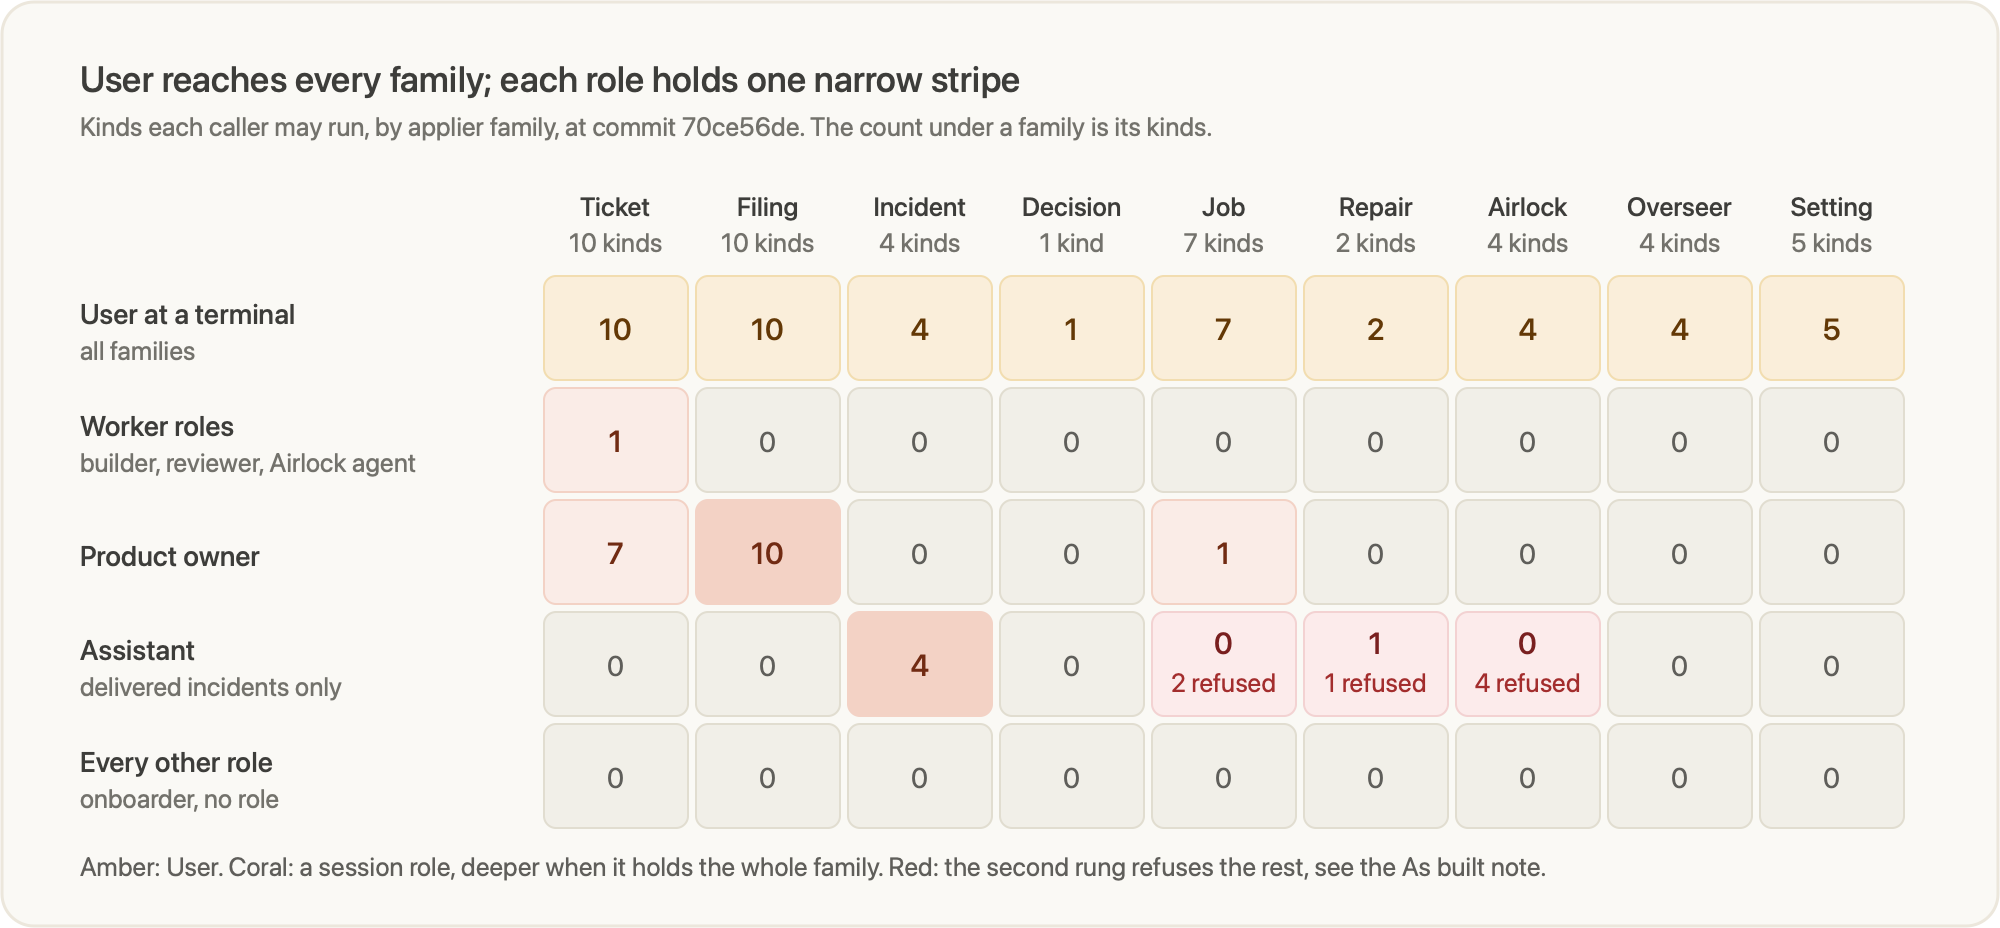
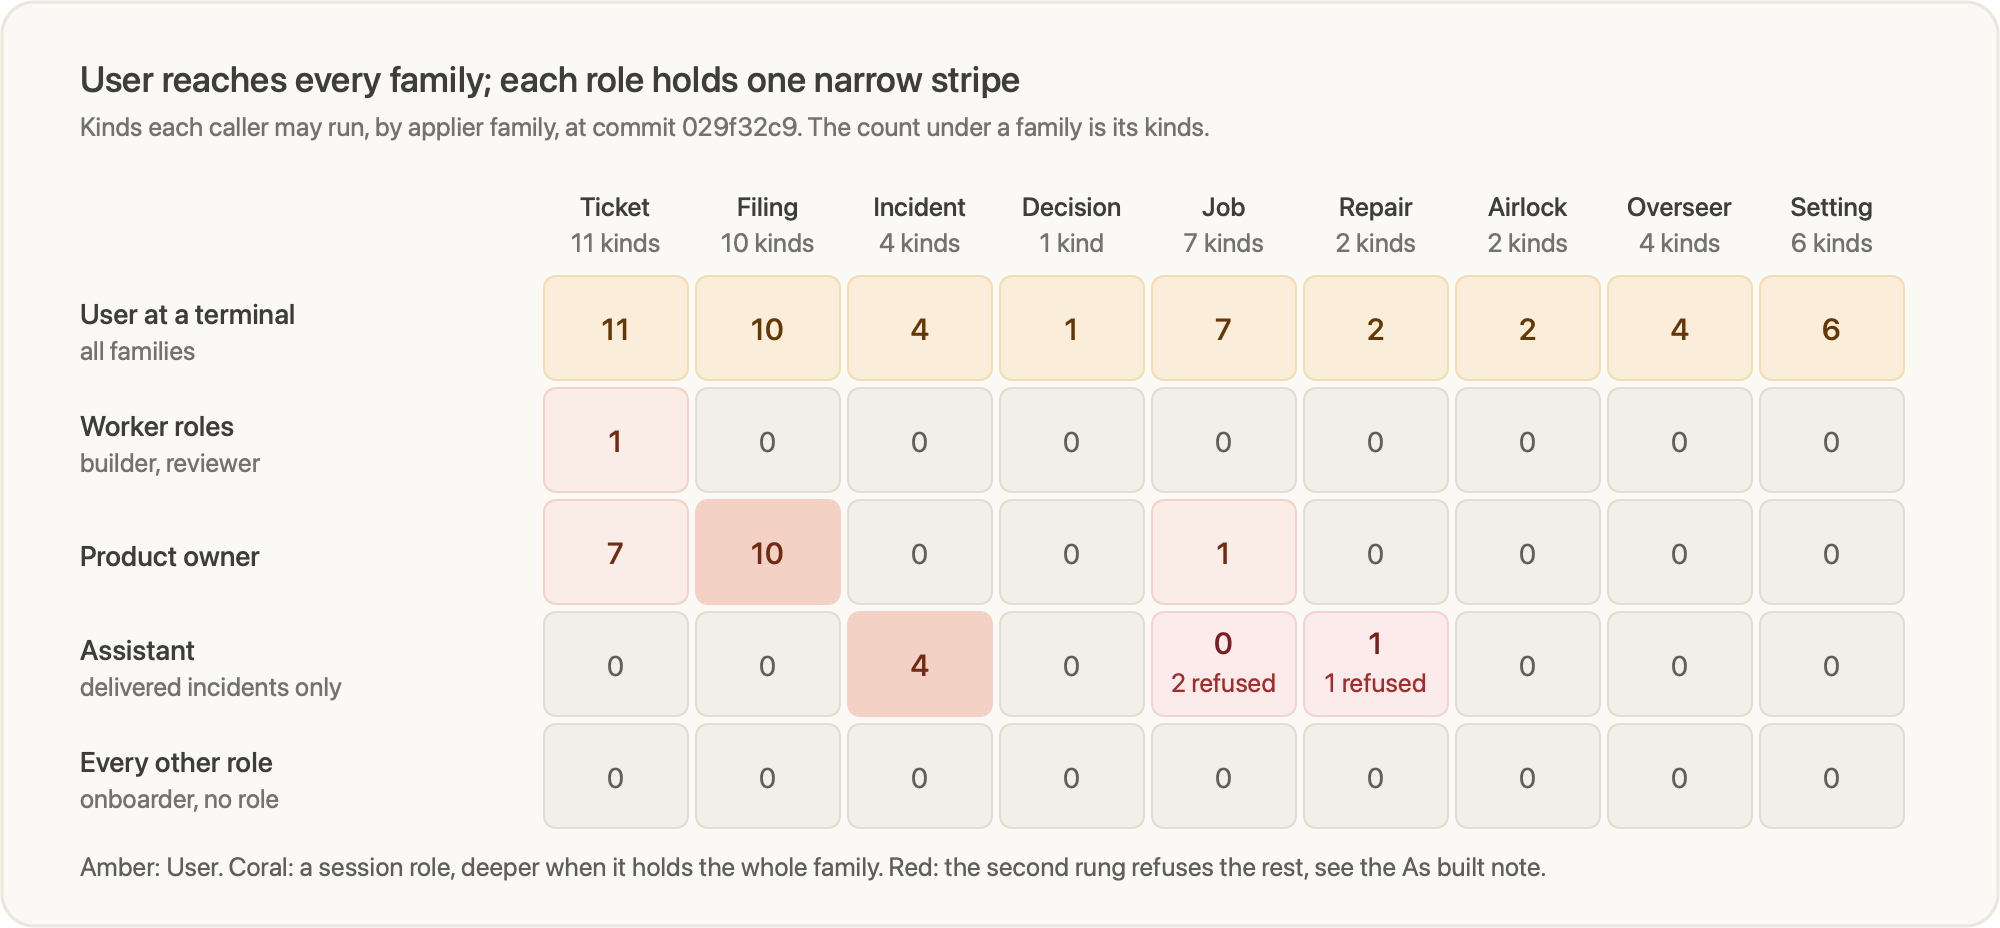
Count the control kinds, their families and the verb routes at commit 029f32c9

diff --git a/docs/architecture/control-and-hatch.md b/docs/architecture/control-and-hatch.md
@@ -29,7 +29,7 @@ it. The folder holds against Bash only; [Identity is a folder](#identity-is-a-fo
 
 ## One contract
 
-`ControlCommand` is one union of 48 kinds at commit 70ce56de, counted from `CONTROL_COMMAND_KINDS`. Each value is plain
+`ControlCommand` is one union of 47 kinds at commit 029f32c9, counted from `CONTROL_COMMAND_KINDS`. Each value is plain
 JSON, so it survives a Hatch file or an HTTP body unchanged. A ticket is named as it was written (`3`, `003`, `#3`) and
 resolved inside the hold by `ticketIdOfReference`. Nine applier files implement the kinds, and a `satisfies` check on
 `CONTROL_APPLIERS` fails the type-check if a kind has no applier.
@@ -39,16 +39,17 @@ A few verbs only User runs by hand, such as `log` and `ticket status`, have no c
 
 | Applier file in `src/services/control/` | Kinds | Reaches an applier through a Hatch |
 | --- | --- | --- |
-| `TicketControls.ts` (10) | `ticket-add`, `ticket-edit`, `ticket-depends`, `ticket-priority`, `ticket-epic`, `ticket-abandon`, `ticket-ready`, `ticket-network`, `ticket-hold`, `ticket-unhold` | All but the last two |
+| `TicketControls.ts` (11) | `ticket-add`, `ticket-edit`, `ticket-depends`, `ticket-priority`, `ticket-epic`, `ticket-abandon`, `ticket-ready`, `ticket-submit`, `ticket-network`, `ticket-hold`, `ticket-unhold` | All but `ticket-ready`, `ticket-submit` and the last two |
 | `FilingControls.ts` (10) | `epic-add`, `draft-open`, `draft-claim`, `draft-release`, `draft-note`, `draft-ask`, `draft-answer`, `draft-drop`, `draft-close`, `draft-abandon` | All, [product owner](../glossary.md#product-owner) only |
 | `IncidentControls.ts` (4) | `ticket-park`, `incident-answer`, `incident-note`, `incident-escalate` | All, [Assistant](../glossary.md#assistant) only |
 | `DecisionControls.ts` (1) | `decision-answer` | None |
 | `JobControls.ts` (7) | `job-stop`, `job-fresh`, `job-stop-all`, `job-message`, `intake-start`, `onboarder-advise`, `intake-close` | `intake-close` only |
 | `RepairControls.ts` (2) | `worktree-repair`, `gate-retry` | `worktree-repair` only |
 | `OverseerControls.ts` (4) | `overseer-pause`, `overseer-resume`, `overseer-stop`, `overseer-restart` | None |
-| `SettingControls.ts` (5) | `concurrency-set`, `pipeline-prepare-step-set`, `pipeline-gate-add`, `pipeline-gates-none`, `pipeline-gate-remove` | None |
+| `SettingControls.ts` (6) | `concurrency-set`, `pipeline-prepare-step-set`, `pipeline-gate-add`, `pipeline-gates-none`, `pipeline-gate-remove`, `pipeline-approval-set` | None |
+| `AirlockControls.ts` (2) | `merge-accept`, `merge-update` | None |
 
-So 25 of the 48 kinds can get through the Hatch at all, for some role. The other 23 are User's alone: their verbs
+So 23 of the 47 kinds can get through the Hatch at all, for some role. The other 24 are User's alone: their verbs
 still relay, and the Overseer refuses them in its hold.
 
 `ControlService.apply` returns one of two outcomes. It is `done`, unless the applier's result says `changed: false`, and
@@ -275,8 +276,8 @@ including a `BoardRefusal` wrapped as `board-refusal`.
 
 ## Which verbs run under a job
 
-Under a job, `jobRouteOf` sends each verb one of three ways before anything else runs. Counts are at commit 70ce56de;
-`cli/HatchUnderJob.spec.ts` holds the lists exact over all 90 verbs `cli/CommandTable.ts` answers. The Assistant's and
+Under a job, `jobRouteOf` sends each verb one of three ways before anything else runs. Counts are at commit 029f32c9;
+`cli/HatchUnderJob.spec.ts` holds the lists exact over all 89 verbs `cli/CommandTable.ts` answers. The Assistant's and
 product owner's moves are in
 [What each session may do through its Hatch](assistant-and-intake.md#what-each-session-may-do-through-its-hatch).
 
@@ -287,7 +288,7 @@ product owner's moves are in
 | Route | Count | Verbs (after `agent-progress-v2`) |
 | --- | --- | --- |
 | Direct, read-only | 21 | `help`, `status`, `usage`, `review-stats`, `version`, `ticket show`, `ticket list`, `epic show`, `epic list`, `draft show`, `draft list`, `hook bash-domains`, `hook session-start`, `oversee status`, `decisions`, `incidents`, `merges`, `jobs`, `job show`, `job attach`, `gate list` |
-| Relayed through the Hatch | 47 | The verb of each kind in `RELAYED_VERB_OF_CONTROL_KIND`; `job stop` serves two kinds |
+| Relayed through the Hatch | 46 | The verb of each kind in `RELAYED_VERB_OF_CONTROL_KIND`; `job stop` serves two kinds |
 | Refused `verb-not-relayable`, exit 1 | 22 | `init`, `update`, `task`, `log`, `range`, `clear`, `open`, `await`, bare `hook`, bare `oversee`, `ticket reopen`, `ticket deliver`, `ticket status`, `ticket rereview`, `ticket link`, `ticket introduced-by`, `ticket size`, `ticket agent`, `ticket release-of`, `epic edit`, `epic remove`, `job wind-down` |
 
 Four refusals surprise people:
@@ -336,7 +337,7 @@ Each refusal carries one reason:
 | An Assistant's move is outside a delivered incident, or its kind does not allow the move | `incident-move-not-allowed` |
 | Anything else | `command-not-allowed-for-role` |
 
-![A matrix of five callers against the nine applier families, with the number of kinds each may run. User at a terminal reaches all 48. Worker roles reach one Ticket kind. The product owner reaches 7 Ticket kinds, all 10 Filing kinds and 1 Job kind. The Assistant reaches all 4 Incident kinds and 1 Repair kind; its table also allows 2 Job kinds, 1 Repair kind and 4 Airlock kinds, which the second rung refuses at the Hatch. Every other role reaches nothing.](../figures/control-and-hatch/reach-by-role.png)
+![A matrix of five callers against the nine applier families, with the number of kinds each may run. User at a terminal reaches all 47. Worker roles reach one Ticket kind. The product owner reaches 7 Ticket kinds, all 10 Filing kinds and 1 Job kind. The Assistant reaches all 4 Incident kinds and 1 Repair kind; its table also allows 2 Job kinds and 1 Repair kind, which the second rung refuses at the Hatch. Every other role reaches nothing.](../figures/control-and-hatch/reach-by-role.png)
 
 *Notice that no two session roles share a family except Ticket.*
 

diff --git a/docs/reference/overseer-api.md b/docs/reference/overseer-api.md
@@ -150,8 +150,8 @@ server.
 
 ## Commands
 
-`POST /api/commands` takes one `ControlCommand` as JSON, `{kind, ...}`. `CONTROL_COMMAND_KINDS` holds 48 kinds at commit
-70ce56de. What each does is in [Control](../architecture/control-and-hatch.md).
+`POST /api/commands` takes one `ControlCommand` as JSON, `{kind, ...}`. `CONTROL_COMMAND_KINDS` holds 47 kinds at commit
+029f32c9. What each does is in [Control](../architecture/control-and-hatch.md).
 
 ![The route checks the token, answering 401, then the JSON and the kind, either failure answering 400. A runtime command leaves here and answers 200, meaning received. Any other command answers 423 during the install hold. Otherwise it is applied in a lock hold of its own: 409 or 400 on failure, or 200 with a Pass woken.](../figures/overseer-api/command-route.png)
 
